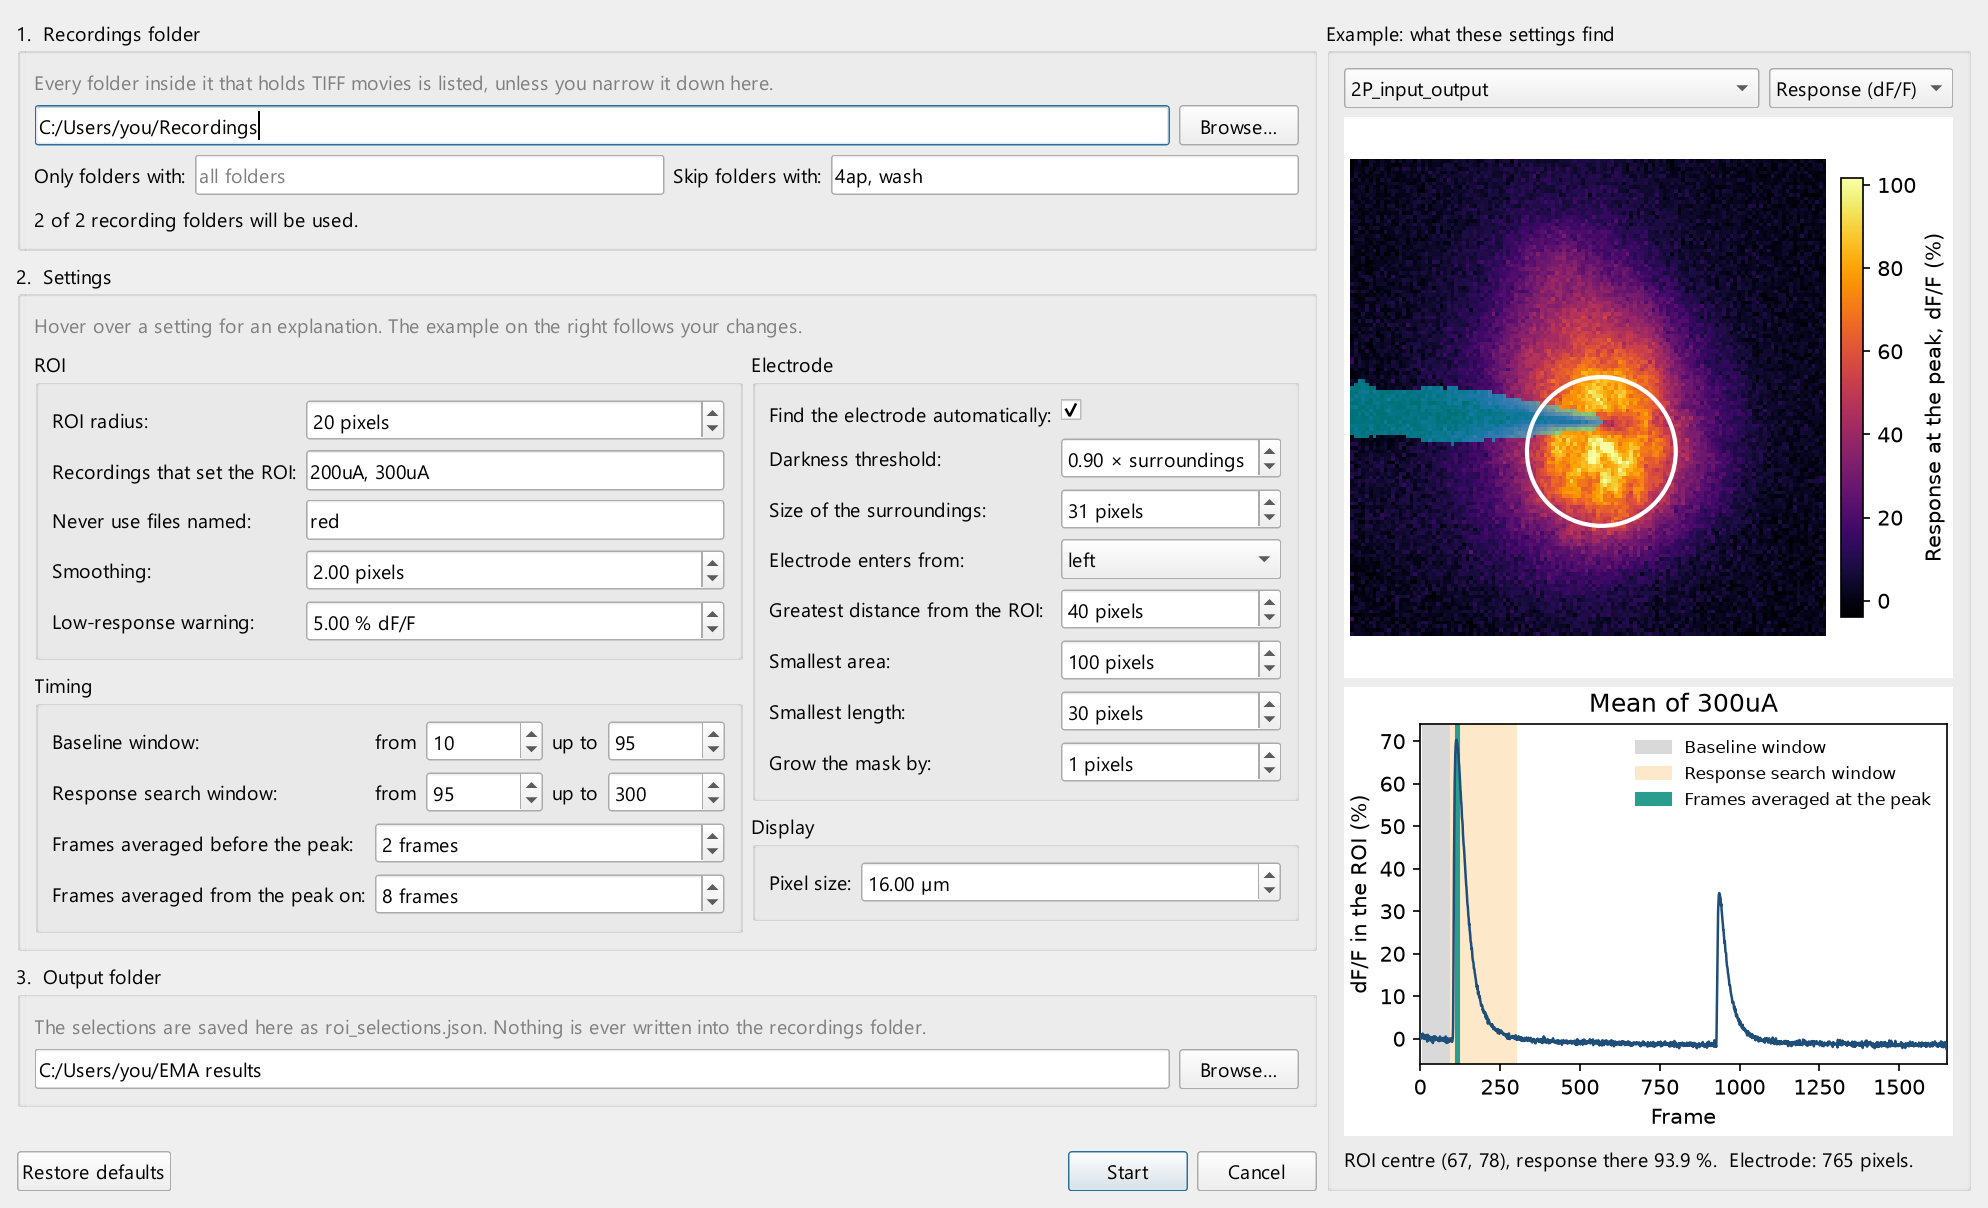
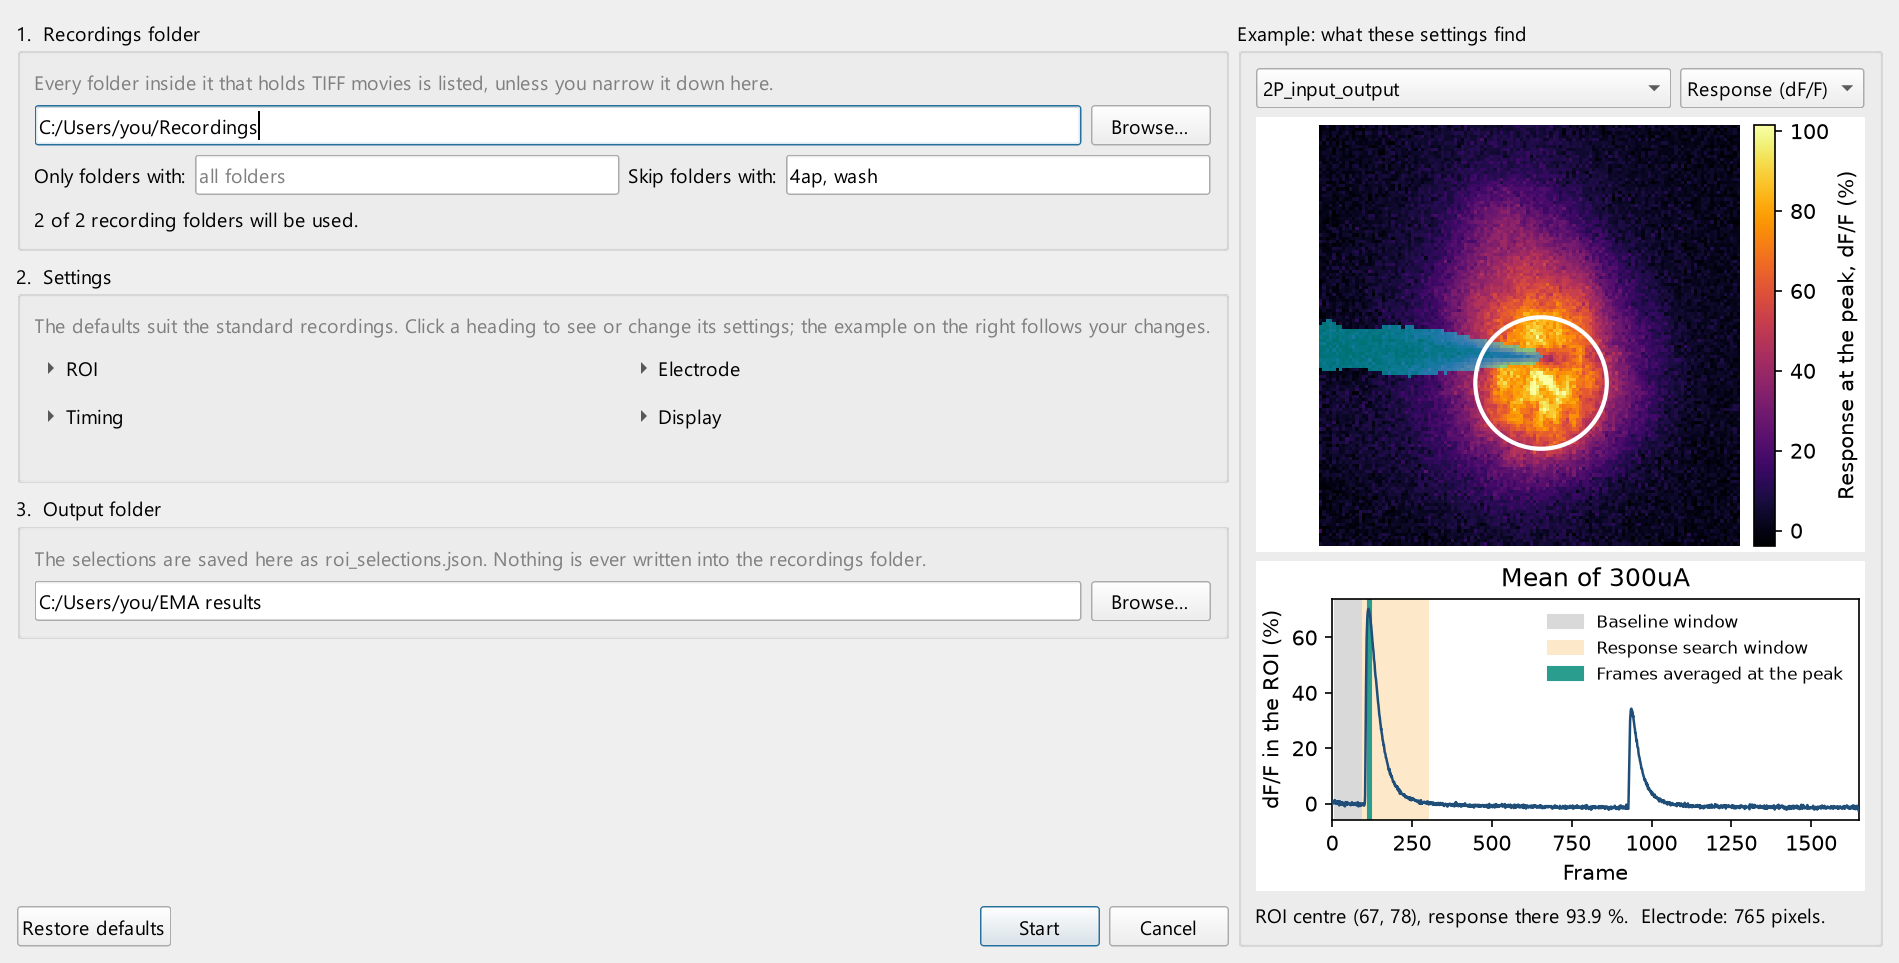
EMA 3.0.0a3: settings sections closed by default
- The ROI, Timing, Electrode and Display sections of the setup dialog are
  closed by default and open when their heading is clicked.
- The heading of a closed section says how many of its settings are not at
  their default.
- The live example keeps a readable minimum size.
- 56 tests.

diff --git a/ema/roi_selection/setup_dialog.py b/ema/roi_selection/setup_dialog.py
@@ -13,6 +13,7 @@ from PyQt5.QtWidgets import (
     QDoubleSpinBox,
     QFileDialog,
     QFormLayout,
+    QFrame,
     QGroupBox,
     QHBoxLayout,
     QLabel,
@@ -20,6 +21,7 @@ from PyQt5.QtWidgets import (
     QMessageBox,
     QPushButton,
     QSpinBox,
+    QToolButton,
     QVBoxLayout,
     QWidget,
 )
@@ -33,8 +35,45 @@ from .settings import RoiSettings
 MAX_FRAME = 1_000_000
 
 
+class Section(QWidget):
+    """A group of settings under a heading. Clicking the heading shows or hides the settings."""
+
+    def __init__(self, title):
+        super().__init__()
+        self.title = title
+        self.heading = QToolButton()
+        self.heading.setText(title)
+        self.heading.setCheckable(True)
+        self.heading.setAutoRaise(True)
+        self.heading.setToolButtonStyle(Qt.ToolButtonTextBesideIcon)
+        self.heading.setToolTip("Click to show or hide these settings.")
+        self.heading.toggled.connect(self.show_settings)
+        self.content = QFrame()
+        self.content.setFrameShape(QFrame.StyledPanel)
+        self.form = QFormLayout(self.content)
+        layout = QVBoxLayout(self)
+        layout.setContentsMargins(0, 0, 0, 0)
+        layout.setSpacing(2)
+        layout.addWidget(self.heading)
+        layout.addWidget(self.content)
+        self.show_settings(False)
+
+    def show_settings(self, shown):
+        self.content.setVisible(shown)
+        self.heading.setArrowType(Qt.DownArrow if shown else Qt.RightArrow)
+
+    def show_note(self, note):
+        """Put a short remark after the title, or remove it with an empty text."""
+        self.heading.setText(f"{self.title}   ({note})" if note else self.title)
+
+
 class SettingsForm(QWidget):
-    """One input per setting, grouped in boxes. Built from the list in settings.py."""
+    """One input per setting, in sections that open on a click. Built from the list in settings.py.
+
+    The sections start closed, because the defaults suit most recordings. A
+    closed section says in its heading when one of its settings is not at its
+    default, so that a change is never out of sight.
+    """
 
     changed = pyqtSignal()  # any setting was edited
 
@@ -42,30 +81,38 @@ class SettingsForm(QWidget):
         super().__init__()
         self.inputs = {}
         self.labels = {}
+        self.sections = {}
         columns = QHBoxLayout(self)
         columns.setContentsMargins(0, 0, 0, 0)
         left, right = QVBoxLayout(), QVBoxLayout()
-        columns.addLayout(left)
-        columns.addLayout(right)
+        columns.addLayout(left, 1)
+        columns.addLayout(right, 1)
 
-        forms = {}
         for f in fields(RoiSettings):
             details = f.metadata
-            if details["group"] not in forms:
-                box = QGroupBox(details["group"])
-                forms[details["group"]] = QFormLayout(box)
-                (right if details["group"] in ("Electrode", "Display") else left).addWidget(box)
+            if details["group"] not in self.sections:
+                section = self.sections[details["group"]] = Section(details["group"])
+                (right if details["group"] in ("Electrode", "Display") else left).addWidget(section)
             widget = self._make_input(details)
             widget.setToolTip(details["help"])
             label = QLabel(details["label"] + ":")
             label.setToolTip(details["help"])
-            forms[details["group"]].addRow(label, widget)
+            self.sections[details["group"]].form.addRow(label, widget)
             self.inputs[f.name] = widget
             self.labels[f.name] = label
         left.addStretch()
         right.addStretch()
         self.inputs["find_electrode"].toggled.connect(self.grey_out_electrode_settings)
+        self.changed.connect(self.show_changes)
         self.show_settings(settings)
+
+    def show_changes(self):
+        """Say in each heading how many of its settings are not at their default."""
+        settings, defaults = self.settings(), RoiSettings()
+        for group, section in self.sections.items():
+            names = [f.name for f in fields(RoiSettings) if f.metadata["group"] == group]
+            changed = sum(getattr(settings, name) != getattr(defaults, name) for name in names)
+            section.show_note(f"{changed} changed from the default" if changed else "")
 
     def grey_out_electrode_settings(self):
         """The other electrode settings mean nothing while the electrode is not looked for."""
@@ -272,7 +319,7 @@ class SetupDialog(QDialog):
 
         steps = QVBoxLayout()
         steps.addWidget(self._step("1.  Recordings folder", "Every folder inside it that holds TIFF movies is listed, unless you narrow it down here.", self.recordings, self.filter, self.match_count))
-        steps.addWidget(self._step("2.  Settings", "Hover over a setting for an explanation. The example on the right follows your changes.", self.form))
+        steps.addWidget(self._step("2.  Settings", "The defaults suit the standard recordings. Click a heading to see or change its settings; the example on the right follows your changes.", self.form))
         steps.addWidget(self._step("3.  Output folder", f"The selections are saved here as {FILE_NAME}. Nothing is ever written into the recordings folder.", self.output))
         steps.addWidget(self.note)
         steps.addStretch()

diff --git a/tests/test_filter_and_review.py b/tests/test_filter_and_review.py
@@ -156,6 +156,30 @@ def test_electrode_settings_are_greyed_out_when_settings_open_without_electrode(
     assert dialog.form.inputs["electrode_edge"].isEnabled()
 
 
+def test_settings_sections_start_closed_and_open_on_a_click(app):
+    form = SettingsForm(RoiSettings())
+    assert list(form.sections) == ["ROI", "Timing", "Electrode", "Display"]
+    assert all(section.content.isHidden() for section in form.sections.values())
+
+    electrode = form.sections["Electrode"]
+    electrode.heading.click()
+    assert not electrode.content.isHidden() and form.sections["ROI"].content.isHidden()
+    electrode.heading.click()
+    assert electrode.content.isHidden()
+
+
+def test_closed_section_says_when_a_setting_is_not_at_its_default(app):
+    form = SettingsForm(replace(RoiSettings(), electrode_threshold=0.8, electrode_grow_px=2, roi_radius_px=15))
+    assert form.sections["Electrode"].heading.text() == "Electrode   (2 changed from the default)"
+    assert form.sections["ROI"].heading.text() == "ROI   (1 changed from the default)"
+    assert form.sections["Timing"].heading.text() == "Timing"
+
+    form.inputs["roi_radius_px"].setValue(20)
+    assert form.sections["ROI"].heading.text() == "ROI"
+    form.show_settings(RoiSettings())  # what Restore defaults does
+    assert form.sections["Electrode"].heading.text() == "Electrode"
+
+
 def test_after_a_settings_change_every_folder_must_be_reviewed_again(selections, io_folder, tmp_path):
     new = replace(selections.settings, roi_radius_px=12, find_electrode=False)
     selections.change_settings(new)

diff --git a/ema/roi_selection/preview.py b/ema/roi_selection/preview.py
@@ -47,7 +47,10 @@ class SettingsPreview(QGroupBox):
         layout.addWidget(self.image, 5)
         layout.addWidget(self.trace, 4)
         layout.addWidget(self.message)
+        # Large enough to read, also when the dialog is short because all settings sections are closed.
         self.setMinimumWidth(430)
+        self.image.setMinimumHeight(290)
+        self.trace.setMinimumHeight(220)
 
     def _mean_of(self, paths):
         return mean_recording(paths, self.load)

diff --git a/docs/make_screenshots.py b/docs/make_screenshots.py
@@ -66,6 +66,7 @@ def main():
     dialog.show()
     save(dialog, "setup.png")
     dialog.preview.view_box.setCurrentIndex(1)
+    dialog.form.sections["Electrode"].heading.click()
     dialog.form.inputs["electrode_threshold"].setValue(0.97)
     dialog.show_example()
     save(dialog, "setup_example.png")

diff --git a/ema/__init__.py b/ema/__init__.py
@@ -1,4 +1,4 @@
 """EMA: analysis of electrically stimulated brain-slice recordings."""
 
-__version__ = "3.0.0a2"
+__version__ = "3.0.0a3"
 APP_ID = "EMA.analysis"

diff --git a/docs/roi_selection/settings.rst b/docs/roi_selection/settings.rst
@@ -7,6 +7,12 @@ it is always known which settings a selection was made with. For the same
 reason, changing a setting later means every folder has to be reviewed
 again.
 
+In the dialog the settings sit in four sections, *ROI*, *Timing*,
+*Electrode* and *Display*, which open when their heading is clicked. They
+start closed: the defaults are meant to stay as they are unless your
+recordings need something else. The heading of a closed section says when
+one of its settings is not at its default.
+
 Trying a setting
 ----------------
 
@@ -18,9 +24,9 @@ timing windows, and one line with the numbers.
 .. figure:: ../screenshots/setup_example.png
    :width: 100%
 
-   Trying a higher darkness threshold. The example shows the baseline image,
-   where the electrode is easiest to see: the mask has grown along the image
-   edge.
+   Trying a higher darkness threshold, with the *Electrode* section open.
+   The example shows the baseline image, where the electrode is easiest to
+   see: the mask has grown along the image edge.
 
 * The list above the image chooses the example folder. Try a folder with a
   strong response and one with a weak response.

diff --git a/docs/roi_selection/walkthrough.rst b/docs/roi_selection/walkthrough.rst
@@ -33,10 +33,17 @@ Only folders with / Skip folders with
    folder.
 
 Settings
-   The variables of the automatic detection. The defaults suit the standard
-   recordings (128 × 128 pixels, stimulation near frame 103). Hover over a
-   setting to read what it does; :doc:`settings` explains each one with a
-   picture. *Restore defaults* puts every setting back.
+   The variables of the automatic detection, in four sections: *ROI*,
+   *Timing*, *Electrode* and *Display*. The sections are closed, because the
+   defaults suit the standard recordings (128 × 128 pixels, stimulation near
+   frame 103) and most of the time nothing here needs changing. Click a
+   heading to open its section. Hover over a setting to read what it does;
+   :doc:`settings` explains each one with a picture.
+
+   A closed section says in its heading when something in it is not at its
+   default, for example *Electrode (1 changed from the default)*, so a
+   changed setting is never out of sight. *Restore defaults* puts every
+   setting back.
 
 Output folder
    Where ``roi_selections.json`` is saved. It must be outside the recordings

diff --git a/CHANGELOG.md b/CHANGELOG.md
@@ -1,5 +1,11 @@
 # Changelog
 
+## 3.0.0a3 — 2026-11-14
+
+- **Setup dialog:** the settings sections (*ROI*, *Timing*, *Electrode*, *Display*) are closed by default and
+  open when their heading is clicked. The defaults are meant to stay as they are, so they no longer fill the
+  dialog. The heading of a closed section says how many of its settings are not at their default.
+
 ## 3.0.0a2 — 2026-11-14
 
 ROI Selection, after the first round of use.
